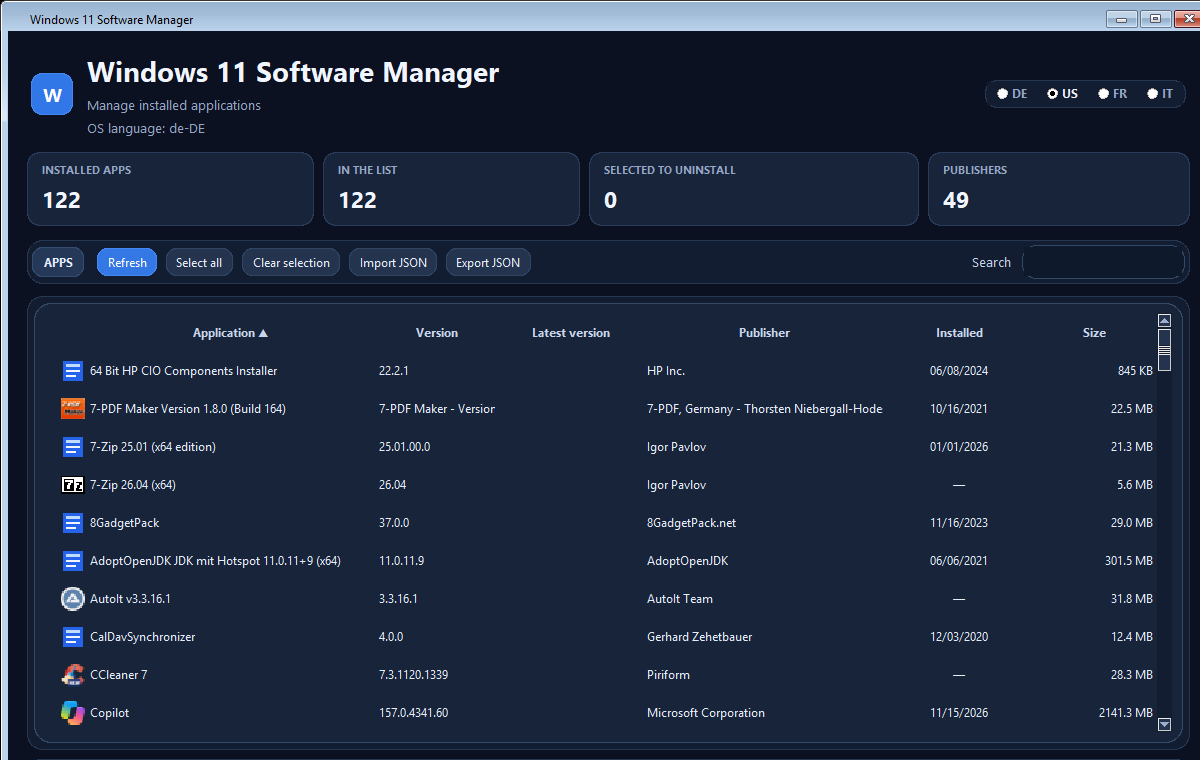
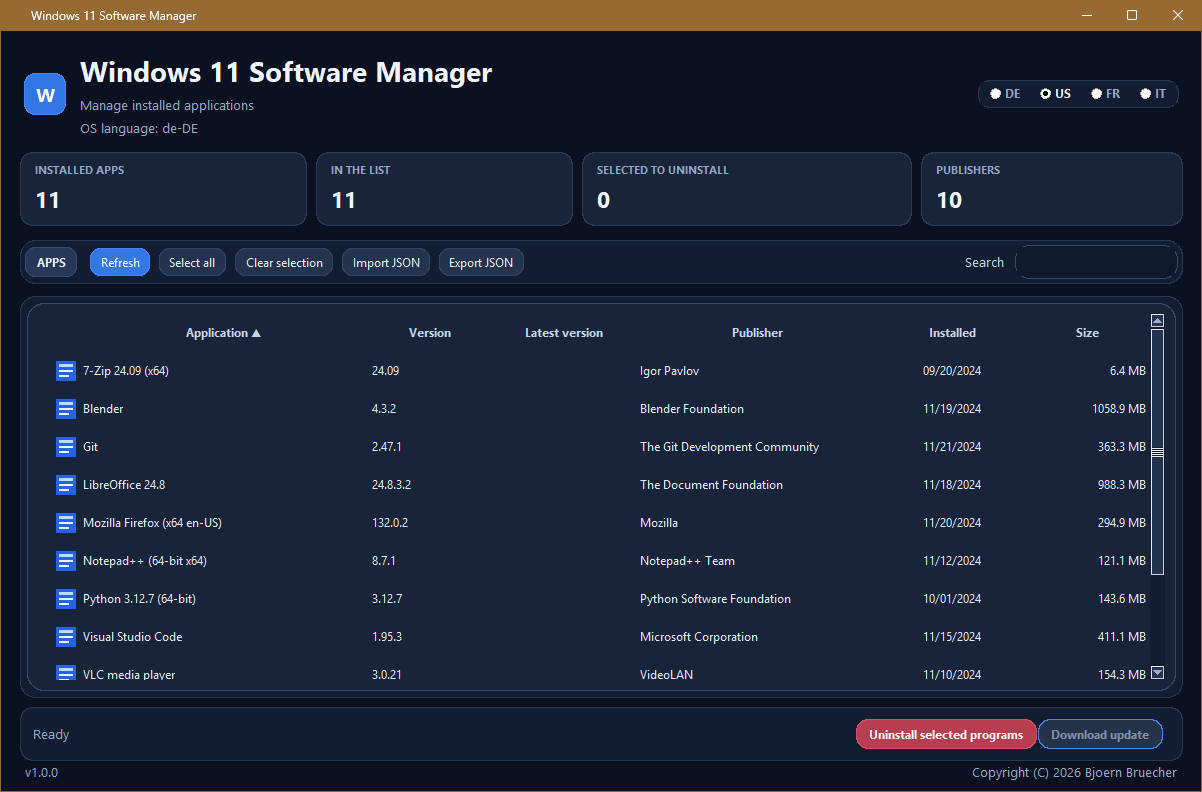
Keep footer visible and refresh README screenshot

Changed region(s): [[0.0, 0.0, 1.0, 1.0], [0.8017, 0.0908, 0.9867, 0.1513], [0.9867, 0.3329, 1.0, 0.3632]]

diff --git a/src/software_manager_view.py b/src/software_manager_view.py
@@ -96,8 +96,12 @@ class SoftwareManagerView:
             iconbitmap(str(
                 bundle_directory / "assets" / "program.ico"
             ))
-        self.root.geometry("1200x800")
-        self.root.minsize(950, 700)
+        window_height = min(
+            800,
+            max(600, self.root.winfo_screenheight() - 100)
+        )
+        self.root.geometry(f"1200x{window_height}")
+        self.root.minsize(950, min(700, window_height))
         self.setup_style()
         self.tree, self.status, self.list_progress = self.create_interface(
             on_refresh,
@@ -357,6 +361,9 @@ class SoftwareManagerView:
         )
         self._create_search(toolbar)
 
+        status, list_progress = self._create_footer(
+            on_uninstall, on_download_update
+        )
         content = ttk.Frame(self.root, padding=(18, 11, 18, 0))
         content.pack(fill="both", expand=True)
         table_card = RoundedPanel(
@@ -382,9 +389,6 @@ class SoftwareManagerView:
         )
         table_surface.pack(fill="both", expand=True)
         tree = self._create_table(table_surface.content)
-        status, list_progress = self._create_footer(
-            on_uninstall, on_download_update
-        )
         return tree, status, list_progress
 
     def _create_summary_cards(self, parent: tk.Misc) -> None:
@@ -577,6 +581,19 @@ class SoftwareManagerView:
         on_download_update: Callable[[], None]
     ) -> Tuple[ttk.Label, ttk.Progressbar]:
         """Add status, uninstall action, version, and copyright notice."""
+        copyright_footer = ttk.Frame(self.root, padding=(22, 0, 22, 9))
+        copyright_footer.pack(side="bottom", fill="x")
+        ttk.Label(
+            copyright_footer,
+            text=f"v{APP_VERSION}",
+            style="Subheader.TLabel"
+        ).pack(side="left")
+        ttk.Label(
+            copyright_footer,
+            text="Copyright (C) 2026 Bjoern Bruecher",
+            style="Subheader.TLabel"
+        ).pack(side="right")
+
         footer_panel = RoundedPanel(
             self.root,
             RoundedPanelStyle(
@@ -587,7 +604,9 @@ class SoftwareManagerView:
                 inset=12
             )
         )
-        footer_panel.pack(fill="x", padx=18, pady=(8, 0))
+        footer_panel.pack(
+            side="bottom", fill="x", padx=18, pady=(8, 0)
+        )
         footer = footer_panel.content
         status = ttk.Label(
             footer,
@@ -638,18 +657,6 @@ class SoftwareManagerView:
         )
         self.action_buttons["uninstall_button"].pack(side="right")
 
-        copyright_footer = ttk.Frame(self.root, padding=(22, 0, 22, 9))
-        copyright_footer.pack(fill="x")
-        ttk.Label(
-            copyright_footer,
-            text=f"v{APP_VERSION}",
-            style="Subheader.TLabel"
-        ).pack(side="left")
-        ttk.Label(
-            copyright_footer,
-            text="Copyright (C) 2026 Bjoern Bruecher",
-            style="Subheader.TLabel"
-        ).pack(side="right")
         return status, list_progress
 
     def _make_button(

diff --git a/.github/skills/update-readme-screenshot/SKILL.md b/.github/skills/update-readme-screenshot/SKILL.md
@@ -11,6 +11,12 @@ When adding or refreshing an application screenshot for the README:
 
 - Capture the real Tkinter application window at its standard `1200x760`
   client size.
+- Capture the complete top-level window, including its title bar, rather than
+  only the Tk client-area HWND.
+- On Windows, use the visible frame bounds from
+  `DwmGetWindowAttribute` with `DWMWA_EXTENDED_FRAME_BOUNDS` when capturing the
+  window. A raw `GetWindowRect` can include DWM shadow margins and reveal
+  desktop pixels around the application.
 - Configure the GUI language to US/English for documentation screenshots,
   regardless of the operating system locale.
 - Do not change the application's normal locale detection; only force English
@@ -25,6 +31,9 @@ When adding or refreshing an application screenshot for the README:
   ```
 
 - Avoid capturing the editor, terminal, desktop, dialogs, or uninstall actions.
+- Inspect the saved PNG itself before finishing. Confirm it includes the full
+  title bar, all of the client area through the version/copyright row at the
+  bottom, and no surrounding desktop or cropped edges.
 - Do not execute uninstall commands while capturing or validating.
 - Run `python -m compileall -q Win11-SW-Manager.py src` after README asset
   changes.

diff --git a/README.md b/README.md
@@ -42,7 +42,7 @@ This project reads installed applications from the Windows registry, displays th
 - Show the application icon in the window and packaged executable, for use on shortcuts
 - Show the application version in the lower-left corner of the window
 - Request administrator privileges at startup
-- Open the window at a height that keeps the copyright notice visible
+- Adapt the initial window height to the available screen space so the version and copyright notice are visible
 
 ## Screenshot
 
